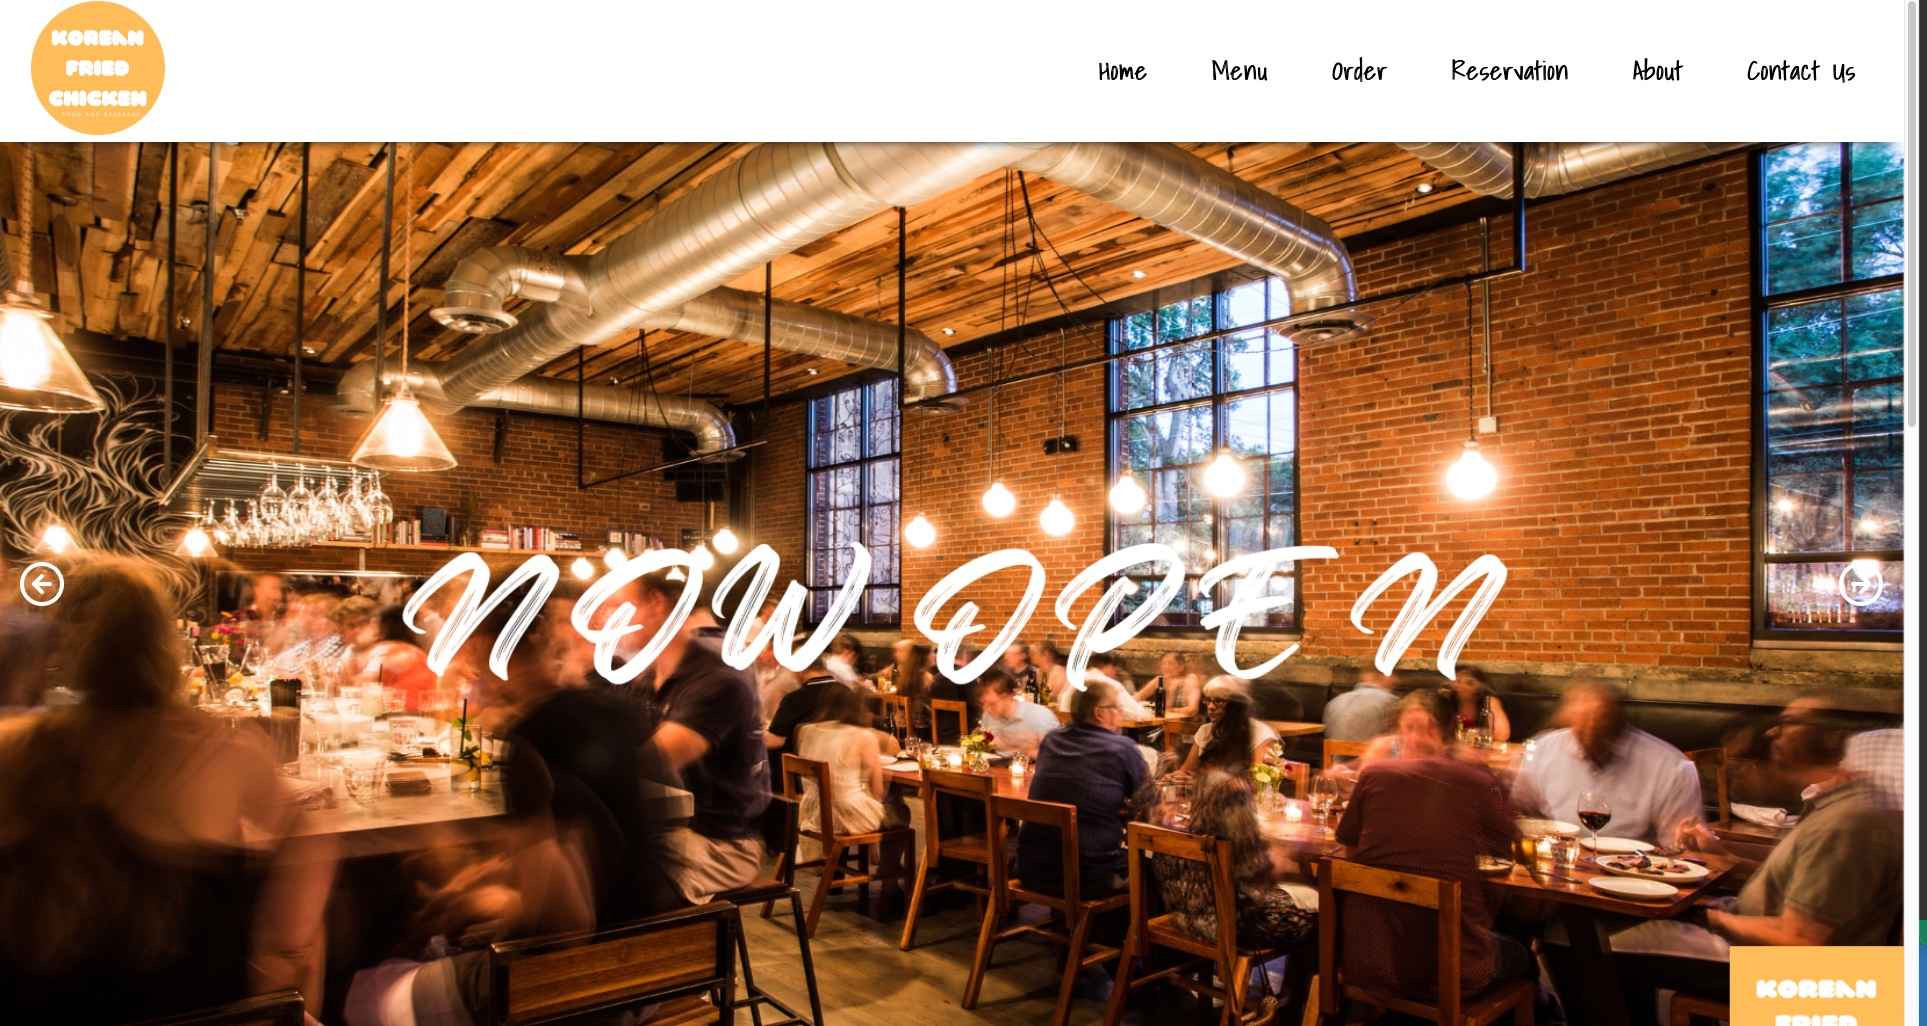
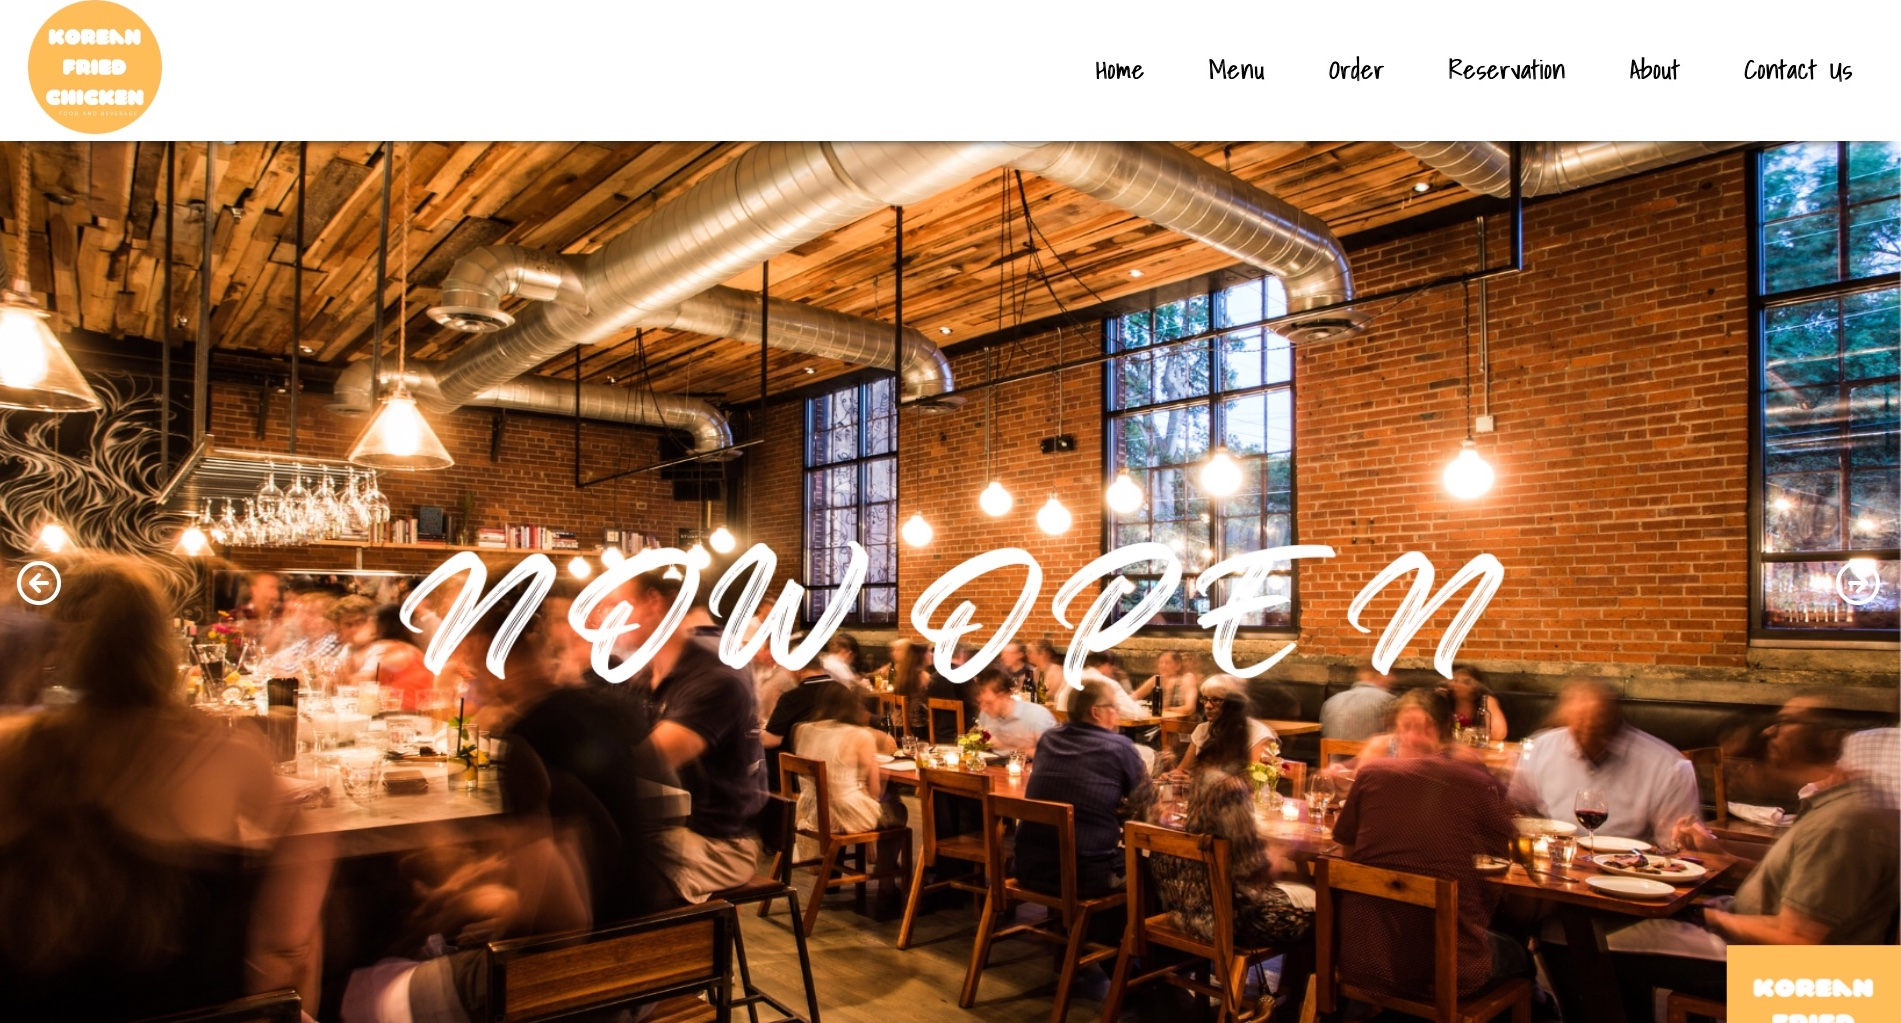
All basic layout done

diff --git a/src/Skills.js b/src/Skills.js
@@ -14,69 +14,106 @@ import AwsCloud from './Assets/AWS-Cloud.png';
 import Container from 'react-bootstrap/Container'
 import Card from 'react-bootstrap/Card'
 import Row from 'react-bootstrap/Row'
-import Col from 'react-bootstrap/Col'
+import Button from 'react-bootstrap/Button'
 
 const Skills = () => {
   return (
-    <Container sytle={{ width: '100%', height: '100vh', display: 'flex', justifyContent: 'center'}}>
-      <Row style={{display: 'flex',justifyContent:'space-evenly'}}>
-        <Card style={{height:'5rem',width:'7rem'}}>
-          <img src={HTML5Logo} alt="HTML5Logo" />
-          <p>HTML</p>
-        </Card>
-        <Card style={{height:'5rem',width:'7rem'}}>
-          <img src={CSSLogo} alt="CSSLogo" />
-          <p>CSS</p>
-        </Card>
-        <Card style={{height:'5rem',width:'7rem'}}>
-          <img src={JavaScriptLogo} alt="JavaScriptLogo" />
-          <p>JavaScript</p>
-        </Card>
-        <Card style={{height:'5rem',width:'7rem'}}>
-          <img src={ReactLogo} alt="ReactLogo" />
-          <p>React</p>
-        </Card>
-        <Card style={{height:'5rem',width:'7rem'}}>
-          <img src={BootStrapLogo} alt="BootStrapLogo" />
-          <p>BootStrap</p>
-        </Card>
-        <Card style={{height:'5rem',width:'7rem'}}>
-          <img src={PythonLogo} alt="PythonLogo" />
-          <p>Python</p>
-        </Card>
-        <Card style={{height:'5rem',width:'7rem'}}>
-          <img src={GitLogo} alt="GitLogo" />
-          <p>Git</p>
-        </Card>
-        <Card style={{height:'5rem',width:'7rem'}}>
-          <img src={GitHubLogo} alt="GitHubLogo" />
-          <p>GitHub</p>
-        </Card>
-      </Row>
+    <Container sytle={{ width: '100%', display: 'flex', justifyContent: 'center'}}>
       <Row style={{marginTop: '5rem', textAlign: 'center'}}>
-        <h1>Certifications</h1>
+        <h1>Skills</h1>
       </Row>
       <Row style={{display: 'flex',justifyContent:'space-evenly', marginTop: '5rem'}}>
-          <Card style={{height:'5rem',width:'7rem'}}>
-            <img src={Meta} alt="Meta" />
-            <p>Meta Front End</p>
+        <Card style={{height:'15rem',width:'10rem', textAlign: 'center', border: 'none'}}>
+          <Card.Img src={HTML5Logo} alt="HTML5Logo" style={{height: '8rem'}}/>
+          <Card.Body>
+            <Card.Title>HTML</Card.Title>
+          </Card.Body>
+        </Card>
+        <Card style={{height:'15rem',width:'10rem', textAlign: 'center', border: 'none'}}>
+          <Card.Img src={CSSLogo} alt="HTML5Logo" style={{height: '8rem'}}/>
+          <Card.Body>
+            <Card.Title>CSS</Card.Title>
+          </Card.Body>
+        </Card>
+        <Card style={{height:'15rem',width:'10rem', textAlign: 'center', border: 'none'}}>
+          <Card.Img src={JavaScriptLogo} alt="HTML5Logo"  style={{height: '8rem'}}/>
+          <Card.Body>
+            <Card.Title>JavaScript</Card.Title>
+          </Card.Body>
+        </Card>
+        <Card style={{height:'15rem',width:'10rem', textAlign: 'center', border: 'none'}}>
+          <Card.Img src={ReactLogo} alt="HTML5Logo" style={{height: '8rem'}}/>
+          <Card.Body>
+            <Card.Title>React</Card.Title>
+          </Card.Body>
+        </Card>
+        <Card style={{height:'15rem',width:'10rem', textAlign: 'center', border: 'none'}}>
+          <Card.Img src={BootStrapLogo} alt="HTML5Logo" style={{height: '8rem'}}/>
+          <Card.Body>
+            <Card.Title>BootStrap</Card.Title>
+          </Card.Body>
+        </Card>
+        <Card style={{height:'15rem',width:'10rem', textAlign: 'center', border: 'none'}}>
+          <Card.Img src={PythonLogo} alt="HTML5Logo" style={{height: '8rem'}}/>
+          <Card.Body>
+            <Card.Title>Python</Card.Title>
+          </Card.Body>
+        </Card>
+        <Card style={{height:'15rem',width:'10rem', textAlign: 'center', border: 'none'}}>
+          <Card.Img src={GitLogo} alt="HTML5Logo" style={{height: '8rem'}}/>
+          <Card.Body>
+            <Card.Title>Git</Card.Title>
+          </Card.Body>
+        </Card>
+        <Card style={{height:'15rem',width:'10rem', textAlign: 'center', border: 'none'}}>
+          <Card.Img src={GitHubLogo} alt="HTML5Logo" style={{height: '8rem'}}/>
+          <Card.Body>
+            <Card.Title>GitHub</Card.Title>
+          </Card.Body>
+        </Card>
+      </Row>
+      <Row style={{ marginTop: '5rem', textAlign: 'center'}}>
+        <h1>Certifications</h1>
+      </Row>
+      <Row style={{ display: 'flex',justifyContent:'space-evenly', marginTop: '5rem'}}>
+          <Card style={{ height:'22rem', width:'11rem', border: 'none'}}>
+            <Card.Img src={Meta} alt="Meta" />
+            <Card.Body style={{textAlign: 'center'}}>
+              <Card.Title>Meta Front-End Developer Certificate</Card.Title>
+            </Card.Body>
+            <Button onClick={() => window.open('https://www.credly.com/badges/5c98a753-6a02-42d5-b2ec-1252cdc07aa6/public_url')}>Verify</Button>
           </Card>
-          <Card style={{height:'5rem',width:'7rem'}}>
-            <img src={PCAP} alt="PCAP" />
-            <p>Python Certified Associate</p>
+          <Card style={{ height:'22rem',width:'11rem', border: 'none'}}>
+            <Card.Img src={PCAP} alt="PCAP" />
+            <Card.Body style={{textAlign: 'center'}}>
+              <Card.Title>PCAP</Card.Title>
+              <Card.Text>Certified Associate in Python Programming</Card.Text>
+            </Card.Body>
+            <Button onClick={() => window.open('https://www.credly.com/badges/a4c12527-6769-4046-994e-015842616a02/public_url')}>Verify</Button>
           </Card>
-          <Card style={{height:'5rem',width:'7rem'}}>
-            <img src={PCEP} alt="PCEP" />
-            <p>Python Certified Entry</p>
+          <Card style={{ height:'22rem', width:'11rem', border: 'none'}}>
+            <Card.Img src={PCEP} alt="PCEP" />
+            <Card.Body style={{textAlign: 'center'}}>
+              <Card.Title>PCEP</Card.Title>
+              <Card.Text>Certified Entry Level Python Programmer</Card.Text>
+            </Card.Body>
+            <Button onClick={() => window.open('https://www.credly.com/badges/3e11e383-19c6-4514-af9f-039ab9451ae9/public_url')}>Verify</Button>
           </Card>
-          <Card style={{height:'5rem',width:'7rem'}}>
-            <img src={GoogleIT} alt="GoogleIT" />
-            <p>Google IT</p>
+          <Card style={{ height:'22rem', width:'11rem', border: 'none'}}>
+            <Card.Img src={GoogleIT} alt="GoogleIT" />
+            <Card.Body style={{textAlign: 'center'}}>
+              <Card.Title>Google IT Support Certificate</Card.Title>
+            </Card.Body>
+            <Button onClick={() => window.open('https://www.credly.com/badges/be103cd0-b385-4225-b036-a54c5ec2a818/public_url')}>Verify</Button>
           </Card>
-          <Card style={{height:'5rem',width:'7rem'}}>
-            <img src={AwsCloud} alt="AwsCloud" />
-            <p>AWS Cloud</p>
+          <Card style={{ height:'22rem', width:'11rem', border: 'none'}}>
+            <Card.Img src={AwsCloud} alt="AwsCloud" />
+            <Card.Body style={{textAlign: 'center'}}>
+              <Card.Title>AWS Certified Cloud Practitioner</Card.Title>
+            </Card.Body>
+            <Button onClick={() => window.open('https://www.credly.com/badges/5bf1062c-f471-4c0a-8e81-3066d2307a56/public_url')}>Verify</Button>
           </Card>
+         
         </Row>
     </Container>
   )

diff --git a/src/Projects.js b/src/Projects.js
@@ -1,25 +1,46 @@
 import Restaurant1 from './Assets/Restaurant1.jpg';
+import Container from 'react-bootstrap/Container';
+import Row from 'react-bootstrap/Row';
+import Col from 'react-bootstrap/Col';
 import Button from 'react-bootstrap/Button';
-
-
+import Card from 'react-bootstrap/Card'
+import HTML5 from './Assets/HTML5_Badge.svg'
+import Figure from 'react-bootstrap/Figure'
+import CSS from './Assets/Css-icon.svg';
+import ReactIcon from './Assets/React-icon.png'
 
 const Projects = () => {
   return (
-    <div>
-      <div>
-        <img src={Restaurant1} alt="Restaurant1" />
-      </div>
-      <div>
-        <div>
-          <h1>Restaurant Landing Page</h1>
-          <p>Lorem, ipsum dolor sit amet consectetur adipisicing elit. Odio, error.</p>
-        </div>
-        <div>
-          <Button variant="outline-dark">Live</Button>
-          <Button variant="outline-dark">Source</Button>
-        </div>
-      </div>
-    </div>
+    <Container style={{ width: '100%', display: 'flex', justifyContent: 'center', height: '80vh' }}>
+    <Card style={{ width: '100%', display: 'flex', justifyContent: 'center', textAlign: 'center', border: 'none'}} >
+      <h1>Projects</h1>
+      <Row style={{ marginTop: '5rem'}}>
+        <Col>
+          <Card.Img src={Restaurant1} />
+        </Col>
+        <Col style={{display: 'flex', alignItems: 'center'}}>
+          <Card.Body>
+            <Card.Title as='h2' sytle={{}}>Restaurant Landing Page</Card.Title>
+            <Card.Text as='p'>
+              Mockup Korean Fried Chicken Restaurant Landing Page.
+              Home page carousel and order page utilizes react hooks.
+              Reservation page utilizes react hooks and react hook forms.
+              contact page form validation was done using formik and yup.
+            </Card.Text>
+            <Figure style={{display: 'flex', justifyContent: 'space-evenly', alignItems: 'center', marginTop: '2rem', marginBottom: '2rem'}}>
+              <Figure.Caption>Technology Used:</Figure.Caption>
+              <Figure.Image src={HTML5} style={{ width: '2rem' }} />
+              <Figure.Image src={CSS} style={{ width: '2rem' }} />
+              <Figure.Image src={ReactIcon} style={{ width: '2rem' }} />
+            </Figure>
+            <Button style={{ width: '8rem', marginRight: '1rem', marginTop: '1rem'}}>Live</Button>
+            <Button style={{ width: '8rem', marginLeft: '1rem', marginTop: '1rem'}} onClick={() => window.open('https://github.com/HyungKim0105/restaurant_home')}>Source Code</Button>
+          </Card.Body>
+          
+        </Col>
+      </Row>
+    </Card>
+    </Container>
   )
 }
 

diff --git a/src/Contact.js b/src/Contact.js
@@ -1,16 +1,29 @@
-import React from 'react'
-
+import Button from 'react-bootstrap/Button';
+import Form from 'react-bootstrap/Form';
+import Container from 'react-bootstrap/Container';
 
 const Contact = () => {
   return (
-    <form>
-        <label>Name</label>
-        <input type="text" />
-        <label>Email</label>
-        <input type="email" />
-        <label>Message</label>
-        <input type="textarea" />
-    </form>
+    <Container style={{width:'100%', height:'80vh', justifyContent:'center', display:'flex'}}>
+      <Form style={{textAlign:'center'}}>
+        <h1 style={{ textAlign:'center' }}>Contact</h1>
+        <Form.Group  className="mb-3" controlId="formBasicEmail" style={{width:'50rem', marginTop:'2rem'}}>
+          <Form.Label>Name</Form.Label>
+          <Form.Control type="text" placeholder="Enter name" />
+        </Form.Group>
+        <Form.Group className="mb-3" controlId="formBasicEmail" style={{width:'50rem', marginTop:'2rem'}}>
+          <Form.Label >Email address</Form.Label>
+          <Form.Control type="email" placeholder="Enter email" />
+        </Form.Group>
+        <Form.Group className="mb-3" controlId="formBasicEmail" style={{width:'50rem', height:'25rem', marginTop:'2rem'}}>
+          <Form.Label>Message</Form.Label>
+          <Form.Control as="textarea" placeholder="Enter message..." rows={12} />
+        </Form.Group>
+        <Button variant="primary" type="submit">
+          Submit
+        </Button>
+      </Form>
+    </Container>
   )
 }
 

diff --git a/src/Home.js b/src/Home.js
@@ -6,7 +6,7 @@ import Container from 'react-bootstrap/Container'
 
 const Home = () => {
   return (
-    <Container style={{ width: '100%', display: 'flex', justifyContent: 'center', height: '100vh' }}>
+    <Container style={{ width: '100%', display: 'flex', justifyContent: 'center', height: '95vh' }}>
     <Card style={{ width: '100%', display: 'flex', justifyContent: 'center', textAlign: 'center', border: 'none'}}>
       <Row >
         <Col>
@@ -16,8 +16,7 @@ const Home = () => {
           <Card.Body>
             <Card.Title as='h1' sytle={{}}>I am a Front End Developer</Card.Title>
             <Card.Text as='p'>
-              Some quick example text to build on the card title and make up the
-              bulk of the card's content.
+              From employee/business owner in retail and hospitality industry to following my passion into software engineering.
             </Card.Text>
           </Card.Body>
         </Col>

diff --git a/src/Navbar.js b/src/Navbar.js
@@ -11,9 +11,10 @@ const NaviLink = () => {
             <img
               alt="HRK"
               src={HRK}
-              width="50"
-              height="50"
+              width="70"
+              height="70"
               className="d-inline-block align-top"
+              style={{borderRadius: '50px'}}
             />
           </Navbar.Brand>
         </Container>
